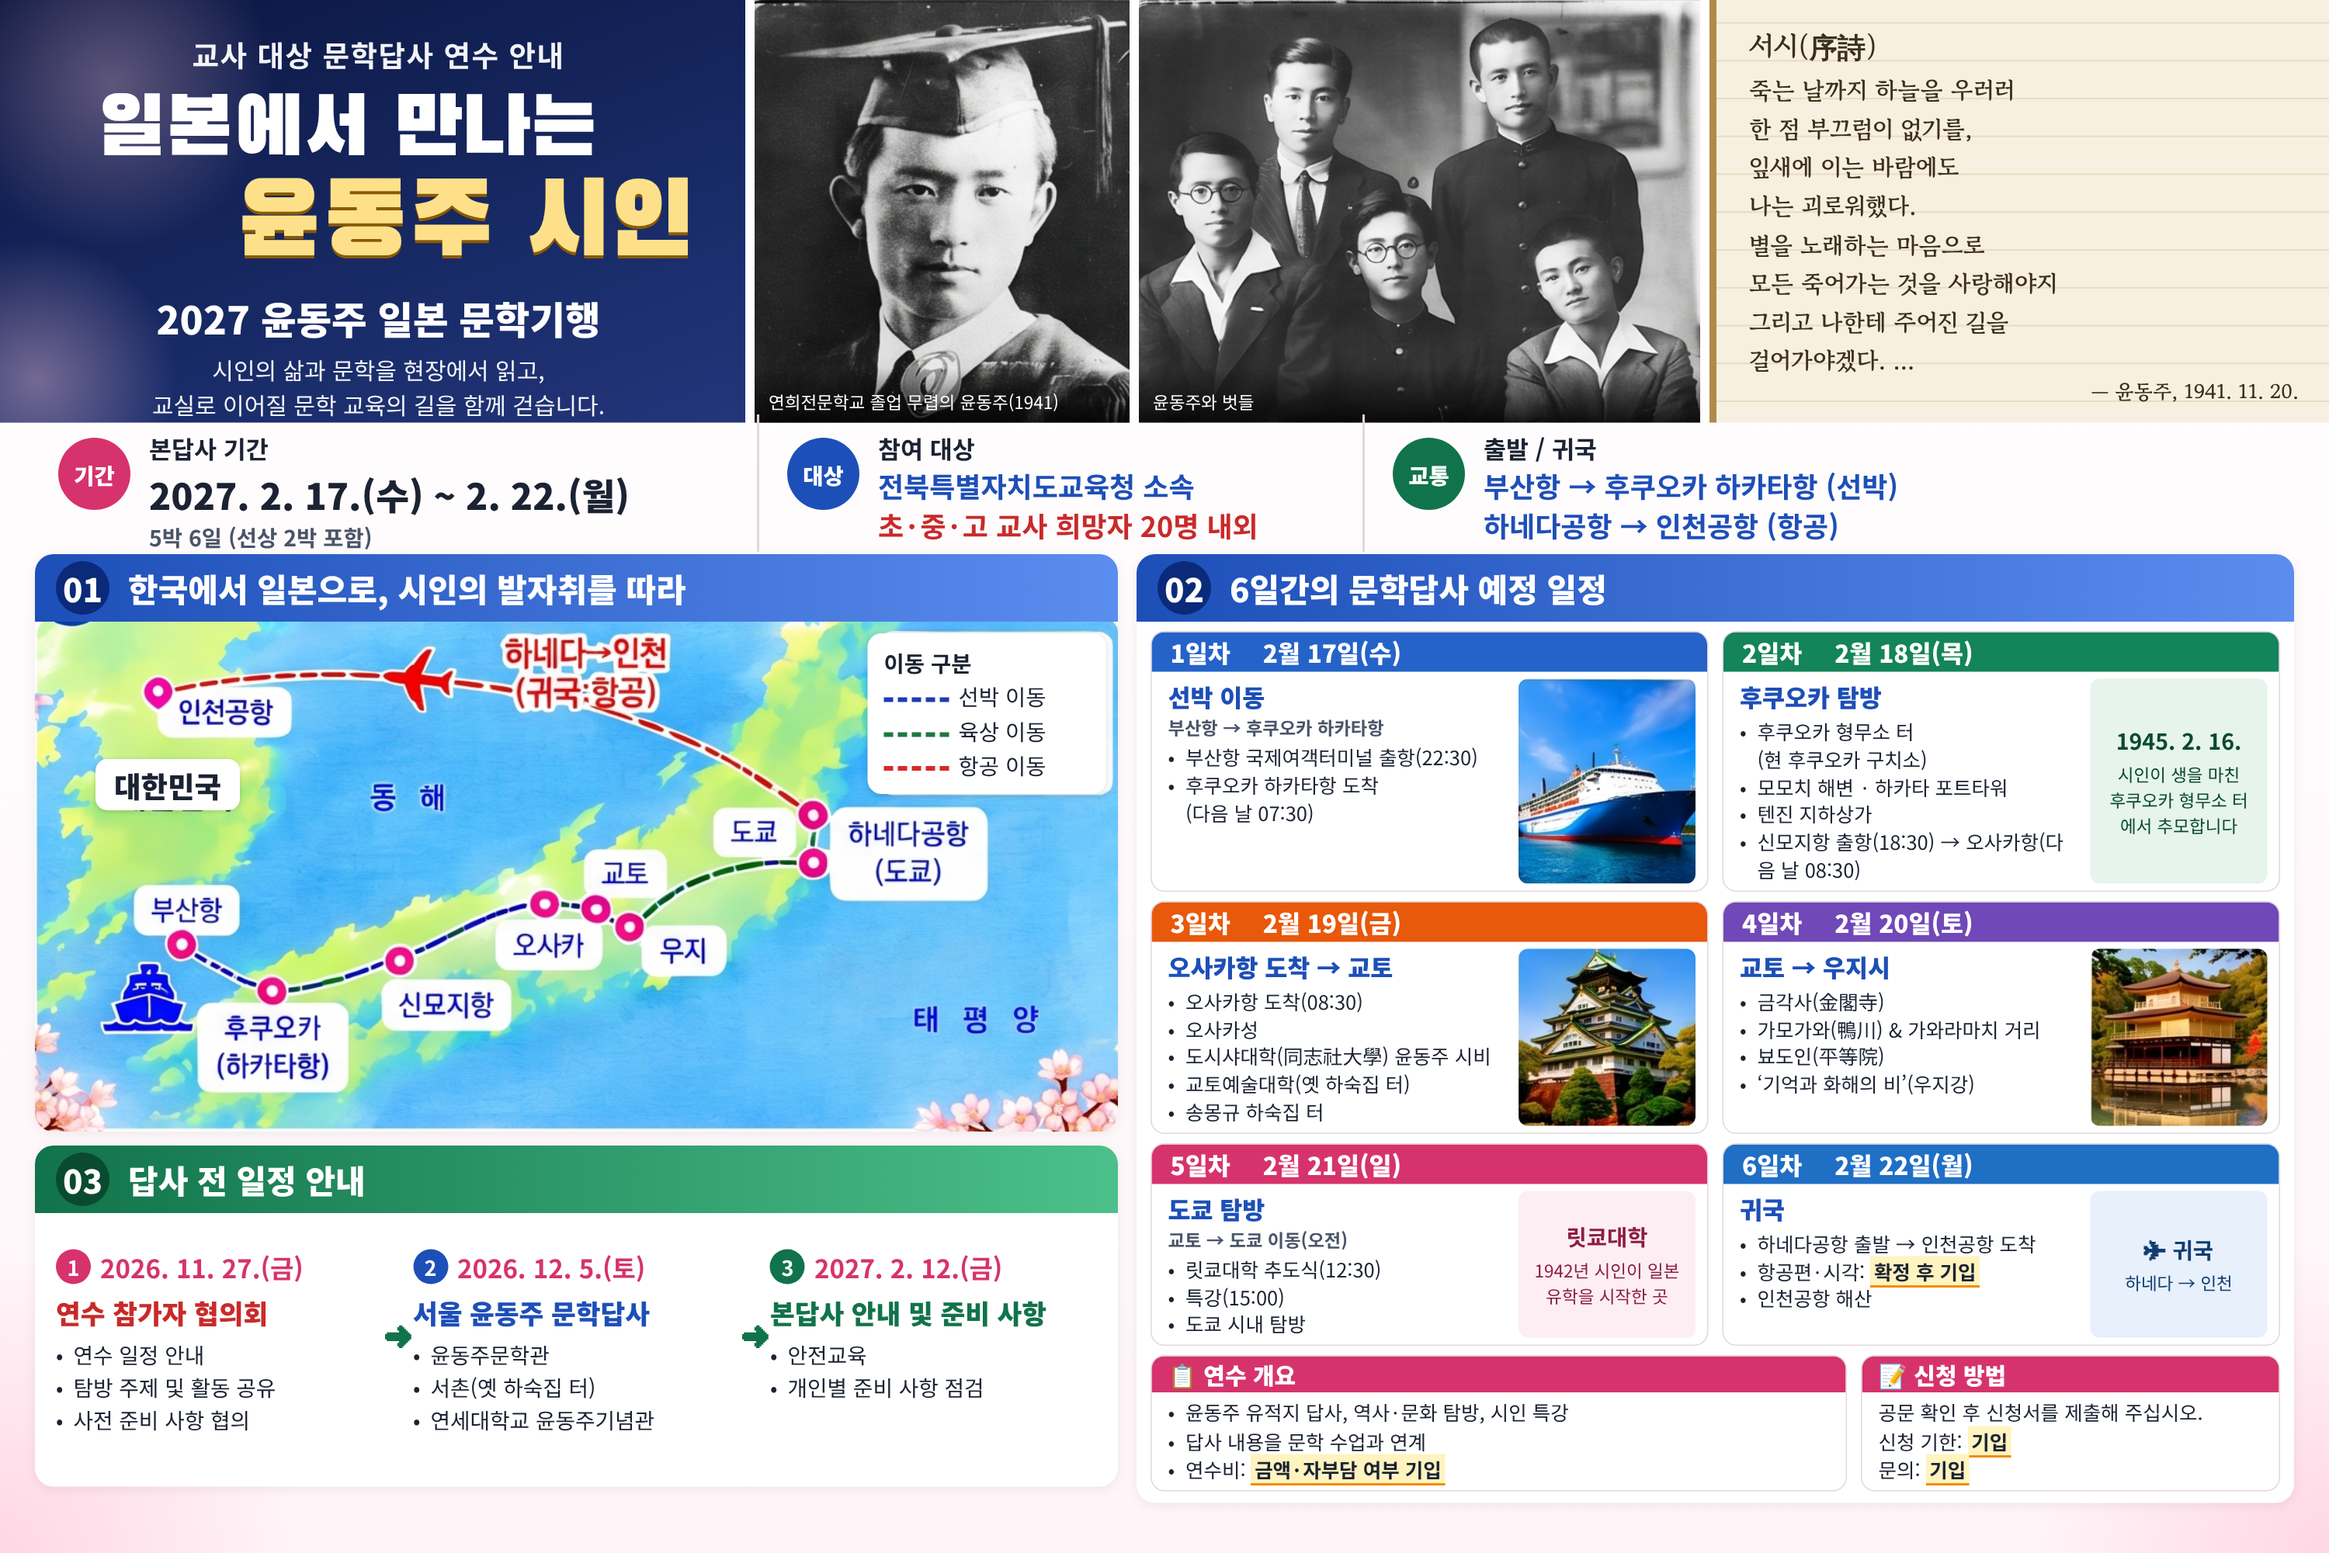
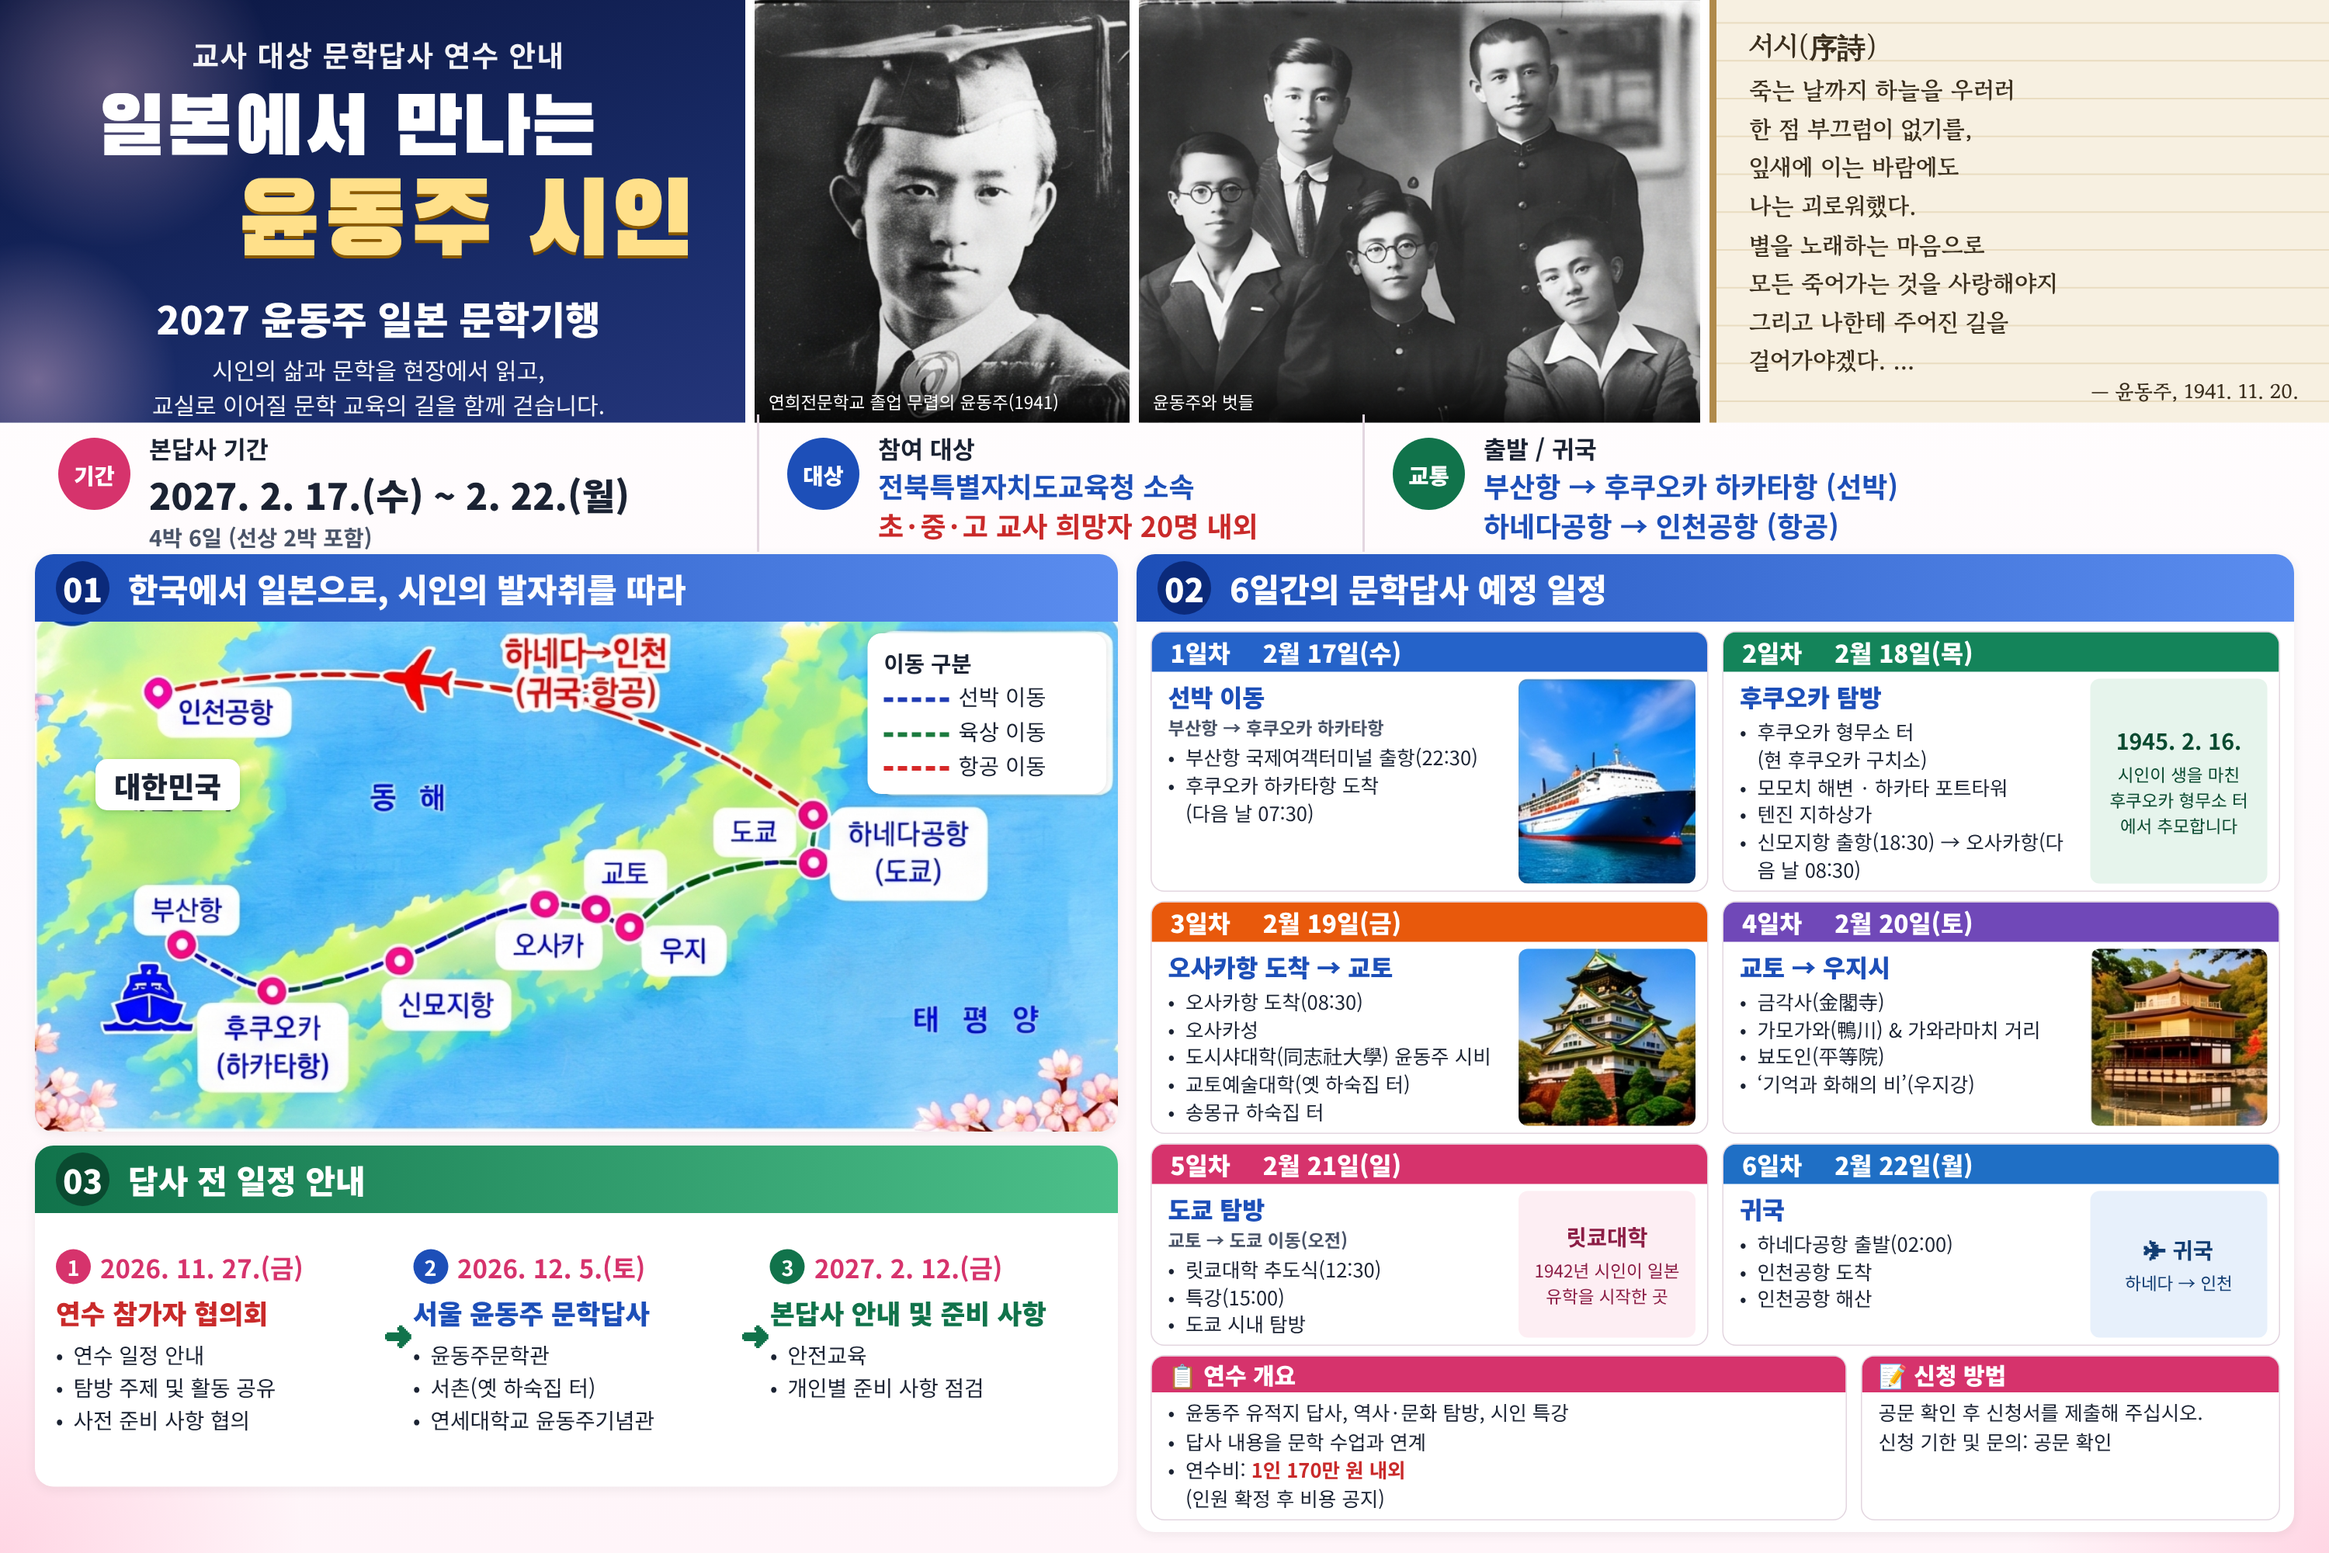
포스터 수정: 4박 6일, 귀국편 02:00, 연수비·신청 안내 반영
Claude-Session: https://claude.ai/code/session_01LCh7YBkeFcKByNZN2XLh8F

diff --git a/poster_윤동주/poster.html b/poster_윤동주/poster.html
@@ -88,7 +88,7 @@ li:before{content:'•';position:absolute;left:0}
 </div>
 
 <div class="info">
- <div><span class="ico">기간</span><div><div class="lbl">본답사 기간</div><div class="big">2027. 2. 17.(수) ~ 2. 22.(월)</div><div class="small">5박 6일 (선상 2박 포함)</div></div></div>
+ <div><span class="ico">기간</span><div><div class="lbl">본답사 기간</div><div class="big">2027. 2. 17.(수) ~ 2. 22.(월)</div><div class="small">4박 6일 (선상 2박 포함)</div></div></div>
  <div><span class="ico" style="background:var(--blue)">대상</span><div><div class="lbl">참여 대상</div><div class="mid">전북특별자치도교육청 소속<br><span class="hl">초·중·고 교사 희망자 20명 내외</span></div></div></div>
  <div><span class="ico" style="background:#11734b">교통</span><div><div class="lbl">출발 / 귀국</div><div class="mid">부산항 → 후쿠오카 하카타항 (선박)<br>하네다공항 → 인천공항 (항공)</div></div></div>
 </div>
@@ -142,14 +142,14 @@ li:before{content:'•';position:absolute;left:0}
 
    <div class="day"><div class="dh c6"><span>6일차</span><span>2월 22일(월)</span></div><div class="db"><div class="txt">
     <h5>귀국</h5>
-    <ul><li>하네다공항 출발 → 인천공항 도착</li><li>항공편·시각: <span class="ph">확정 후 기입</span></li><li>인천공항 해산</li></ul></div>
+    <ul><li>하네다공항 출발(02:00)</li><li>인천공항 도착</li><li>인천공항 해산</li></ul></div>
     <div class="note" style="background:#e7f0fb;color:#123d73"><b>✈ 귀국</b>하네다 → 인천</div></div></div>
   </div>
   <div class="bottom">
    <div class="box"><div class="bh">📋 연수 개요</div><div class="bb">
-    <ul><li>윤동주 유적지 답사, 역사·문화 탐방, 시인 특강</li><li>답사 내용을 문학 수업과 연계</li><li>연수비: <span class="ph">금액·자부담 여부 기입</span></li></ul></div></div>
+    <ul><li>윤동주 유적지 답사, 역사·문화 탐방, 시인 특강</li><li>답사 내용을 문학 수업과 연계</li><li>연수비: <b class="hl">1인 170만 원 내외</b><br>(인원 확정 후 비용 공지)</li></ul></div></div>
    <div class="box"><div class="bh">📝 신청 방법</div><div class="bb">
-    공문 확인 후 신청서를 제출해 주십시오.<br>신청 기한: <span class="ph">기입</span><br>문의: <span class="ph">기입</span></div></div>
+    공문 확인 후 신청서를 제출해 주십시오.<br>신청 기한 및 문의: 공문 확인</div></div>
   </div>
  </div>
 </div>
